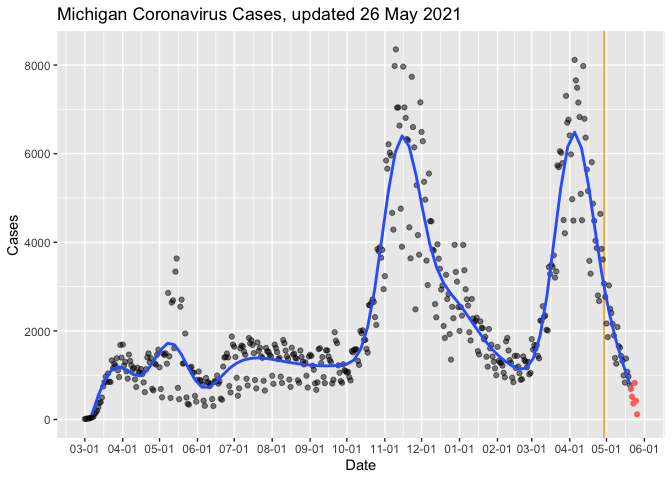
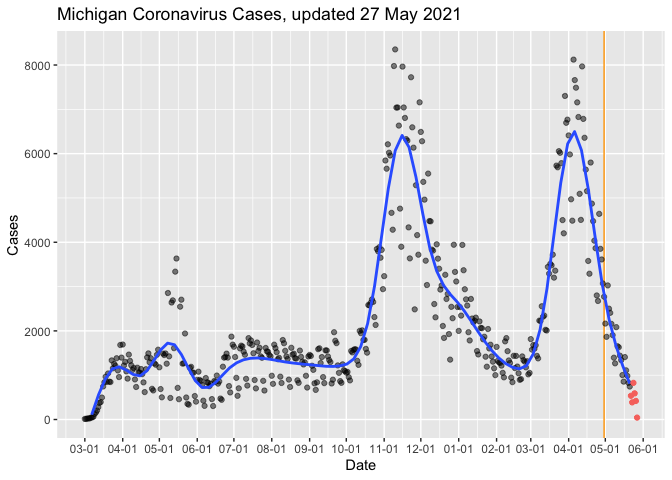
May-28 2021 09:36 update

diff --git a/MiCorona.md b/MiCorona.md
@@ -1,7 +1,7 @@
 Michigan COVID Data
 ================
 Adam D. DenHaan
-May 27, 2021
+May 28, 2021
 
 ``` python
 from urllib.request import urlopen
@@ -34,7 +34,7 @@ mi_data = readxl::read_excel("data/covid.xlsx")
 glimpse(mi_data)
 ```
 
-    ## Rows: 79,552
+    ## Rows: 79,728
     ## Columns: 8
     ## $ COUNTY            <chr> "Alcona", "Alcona", "Alcona", "Alcona", "Alcona", "A…
     ## $ Date              <dttm> 2020-03-01, 2020-03-02, 2020-03-03, 2020-03-04, 202…
@@ -43,7 +43,7 @@ glimpse(mi_data)
     ## $ Deaths            <dbl> 0, 0, 0, 0, 0, 0, 0, 0, 0, 0, 0, 0, 0, 0, 0, 0, 0, 0…
     ## $ Cases.Cumulative  <dbl> 0, 0, 0, 0, 0, 0, 0, 0, 0, 0, 0, 0, 0, 0, 0, 0, 0, 0…
     ## $ Deaths.Cumulative <dbl> 0, 0, 0, 0, 0, 0, 0, 0, 0, 0, 0, 0, 0, 0, 0, 0, 0, 0…
-    ## $ Updated           <dttm> 2021-05-26 12:41:13, 2021-05-26 12:41:13, 2021-05-2…
+    ## $ Updated           <dttm> 2021-05-27 14:06:08, 2021-05-27 14:06:08, 2021-05-2…
 
 Wrangle Data:
 
